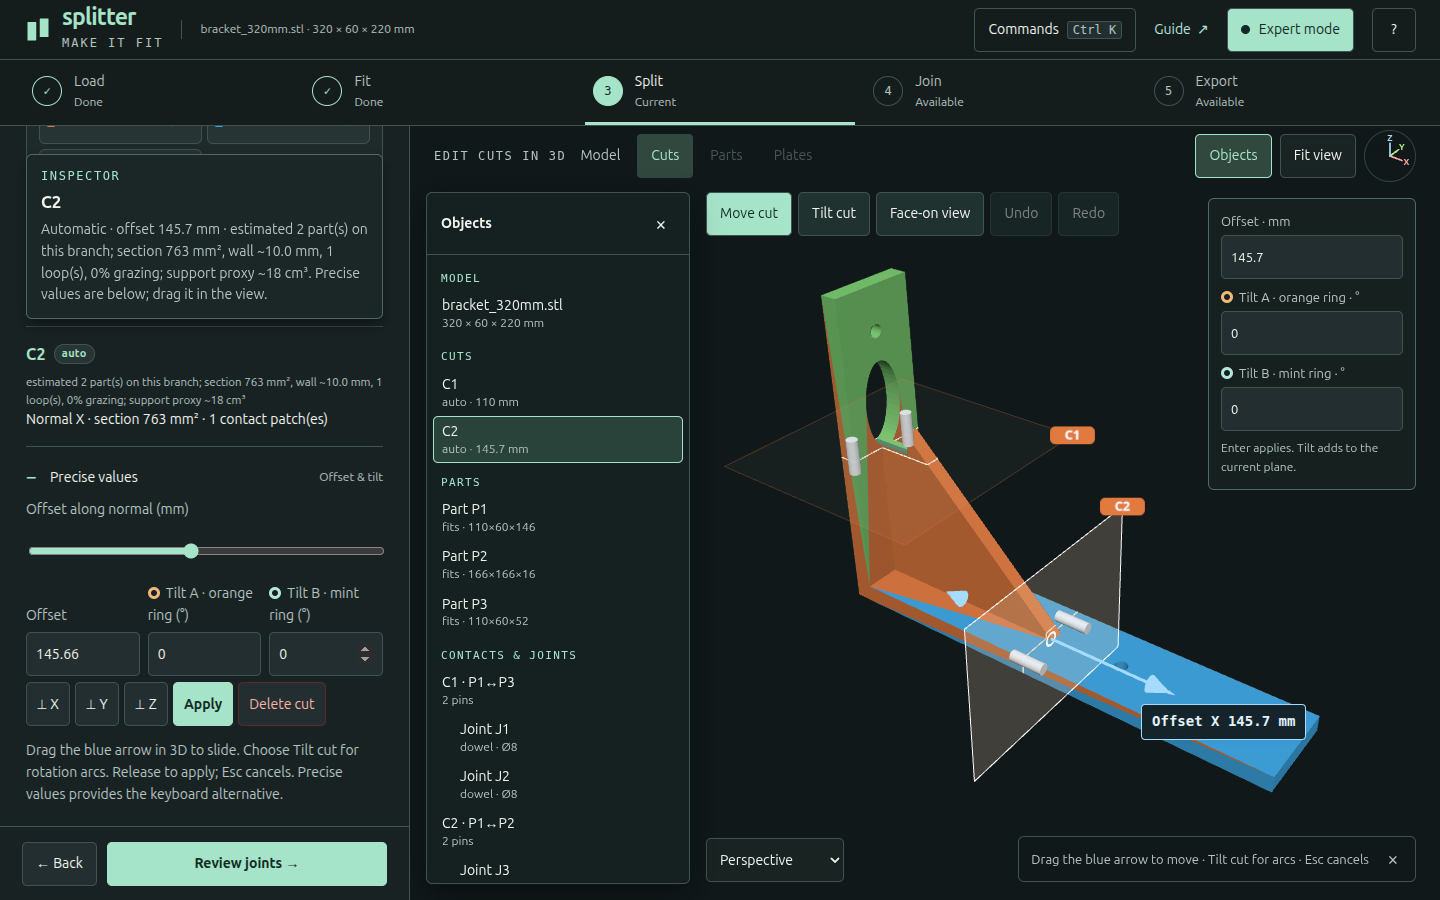
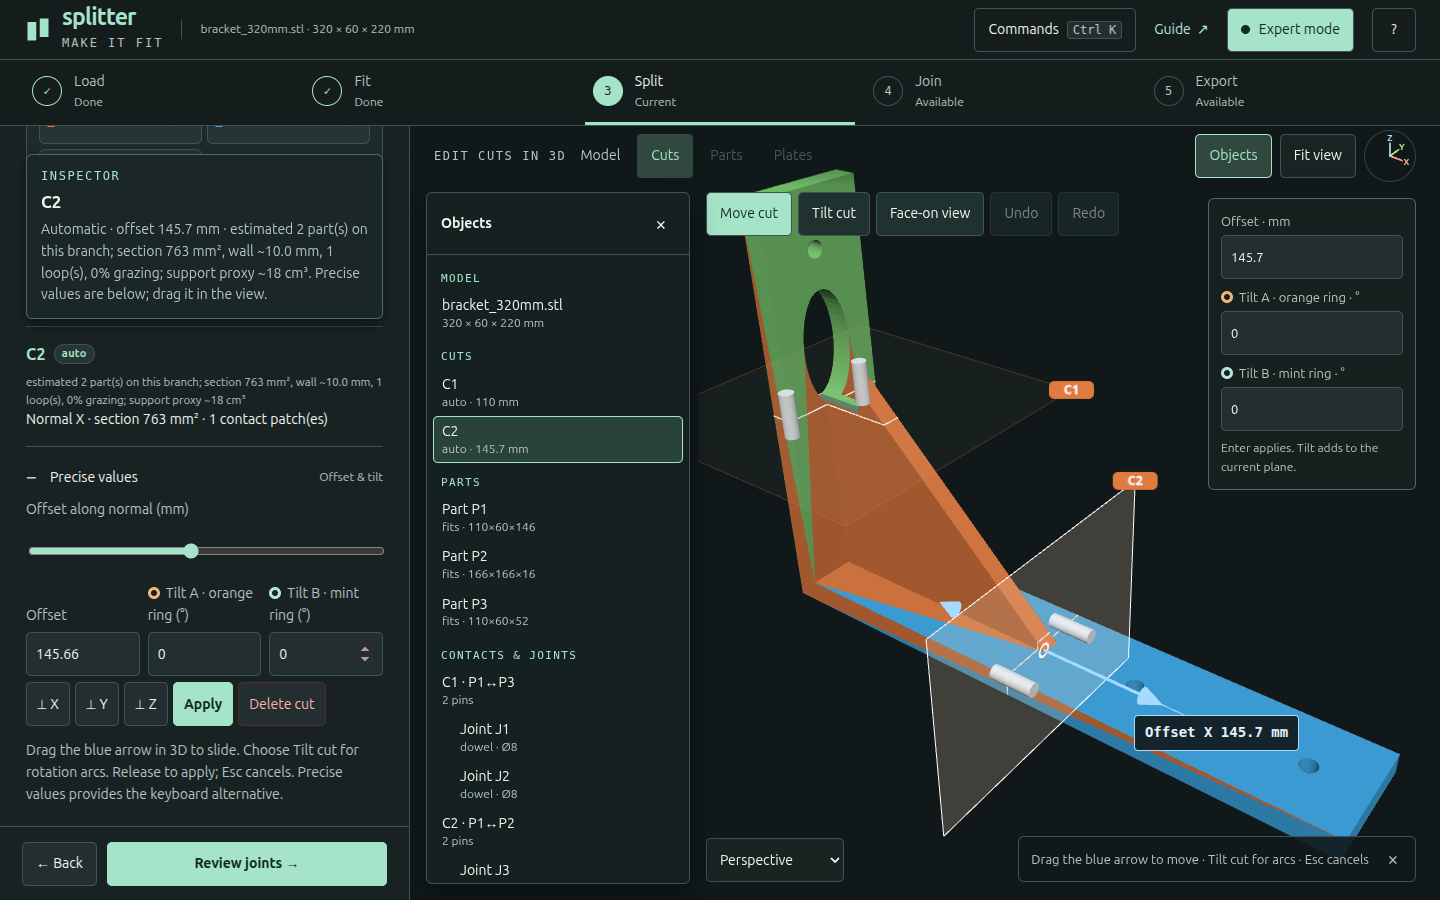
feat: silhouette-exact viewer framing and phone view-bar layout; overlap checks

Changed region(s): [[0.5, 0.1867, 0.9688, 0.9333], [0.7188, 0.4044, 0.7812, 0.4978]]

diff --git a/web/js/viewer.js b/web/js/viewer.js
@@ -271,15 +271,33 @@ export class Viewer {
     // fill ~82 % of the limiting screen dimension (exact for the box, unlike a
     // bounding sphere), so the model dominates phones and desktops alike.
     const up = new THREE.Vector3(0, 0, 1), right = new THREE.Vector3().crossVectors(up, dir).normalize(), camUp = new THREE.Vector3().crossVectors(dir, right);
-    const tv = Math.tan(THREE.MathUtils.degToRad(this.camera.fov / 2)) * 0.82, th = tv * aspect;
+    const fill = aspect < 1 ? 0.9 : 0.82;
+    const tv = Math.tan(THREE.MathUtils.degToRad(this.camera.fov / 2)) * fill, th = tv * aspect;
     let dist = 0;
-    for (const x of [box.min.x, box.max.x]) for (const y of [box.min.y, box.max.y]) for (const z of [box.min.z, box.max.z]) {
-      const p = new THREE.Vector3(x, y, z).sub(c);
-      const depth = p.dot(dir);
+    const pts = [];
+    const fitPoint = (x, y, z) => {
+      const p = new THREE.Vector3(x, y, z).sub(c), depth = p.dot(dir);
+      pts.push(p);
       dist = Math.max(dist, depth + Math.abs(p.dot(right)) / th, depth + Math.abs(p.dot(camUp)) / tv);
-    }
+    };
+    // For the whole model use (sampled) vertices: rounded shapes such as
+    // helmets fill far less of the screen than their box corners suggest.
+    const pos = box === this.box && this.modelGeom?.attributes.position;
+    if (pos) { const step = Math.max(1, Math.floor(pos.count / 40000)); for (let i = 0; i < pos.count; i += step) fitPoint(pos.getX(i), pos.getY(i), pos.getZ(i)); }
+    else for (const x of [box.min.x, box.max.x]) for (const y of [box.min.y, box.max.y]) for (const z of [box.min.z, box.max.z]) fitPoint(x, y, z);
     if (!(dist > 0)) dist = r * 2.9 * Math.max(1, 1.25 / aspect);
-    this.camera.position.copy(c).addScaledVector(dir, Math.max(dist, r * 1.05));
+    dist = Math.max(dist, r * 1.05);
+    // Centre the projected silhouette (not the box centre), then re-fit once:
+    // asymmetric shapes otherwise waste one side of a narrow phone view.
+    if (pts.length) {
+      let x0 = Infinity, x1 = -Infinity, y0 = Infinity, y1 = -Infinity;
+      for (const p of pts) { const z = dist - p.dot(dir), x = p.dot(right) / z, y = p.dot(camUp) / z; x0 = Math.min(x0, x); x1 = Math.max(x1, x); y0 = Math.min(y0, y); y1 = Math.max(y1, y); }
+      c.addScaledVector(right, (x0 + x1) / 2 * dist).addScaledVector(camUp, (y0 + y1) / 2 * dist);
+      let d2 = 0;
+      for (const p0 of pts) { const p = p0.clone().sub(new THREE.Vector3().addScaledVector(right, (x0 + x1) / 2 * dist).addScaledVector(camUp, (y0 + y1) / 2 * dist)), depth = p.dot(dir); d2 = Math.max(d2, depth + Math.abs(p.dot(right)) / th, depth + Math.abs(p.dot(camUp)) / tv); }
+      if (d2 > 0) dist = Math.max(d2, r * 1.05);
+    }
+    this.camera.position.copy(c).addScaledVector(dir, dist);
     this.camera.near = r / 50; this.camera.far = r * 60;
     this.camera.updateProjectionMatrix();
     this.controls.target.copy(c);

diff --git a/web/css/merge.css b/web/css/merge.css
@@ -105,8 +105,18 @@ kbd { font:12px ui-monospace,monospace;border:1px solid var(--line);border-radiu
   .direct-tools { top:50px;left:8px;right:8px;max-width:none; }
   body[data-outliner=true] .direct-tools,body[data-outliner=true] .viewer-tools { left:8px; }
   body[data-outliner=true] #viewport { left:0; }
-  .viewer-tools { left:8px;right:8px;bottom:4px; }
-  .gesture-hint { right:auto;left:8px;bottom:58px;max-width:calc(100% - 16px); }
+  /* Phone: view tools join Fit view in the top bar so the model keeps the bottom edge. */
+  #viewCaption { display:none; }
+  .viewer-tools { left:8px;right:auto;top:2px;bottom:auto;z-index:7;padding:0;background:none;border:0; }
+  .viewer-tools button { font-size:12px;padding:6px 9px; }
+  /* With the presentation tabs shown, Enlarge moves to the lower right. */
+  .stage:has(#views:not([hidden])) .viewer-tools { top:auto;bottom:8px;left:auto;right:8px; }
+  .stage:has(#views:not([hidden])) .gesture-hint { max-width:calc(100% - 150px); }
+  .views { gap:2px; }
+  .views button { min-width:44px;padding:4px 6px;font-size:12px; }
+  .view-corner button,#frameModel { white-space:nowrap; }
+  .stage.expanded .viewer-tools { bottom:auto; }
+  .gesture-hint { right:auto;left:8px;bottom:8px;max-width:calc(100% - 16px); }
   .gesture-hint .viewer-hint,#viewerHint { display:block;font-size:12px; }
   .cut-fields { display:none!important; }
   .side { padding:12px 16px; }
